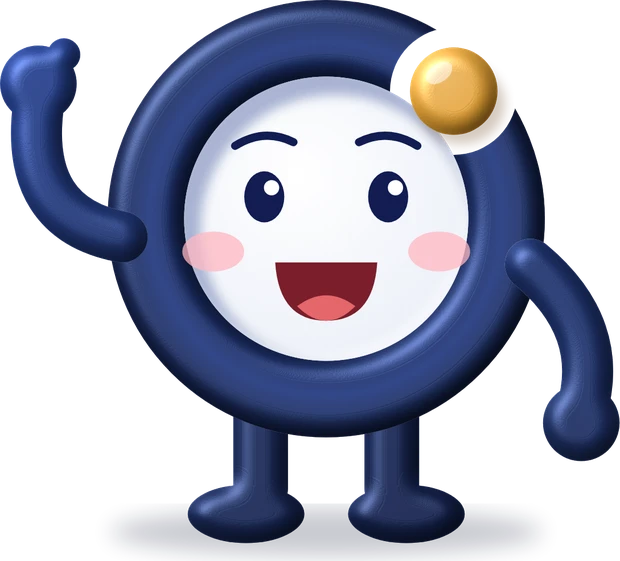
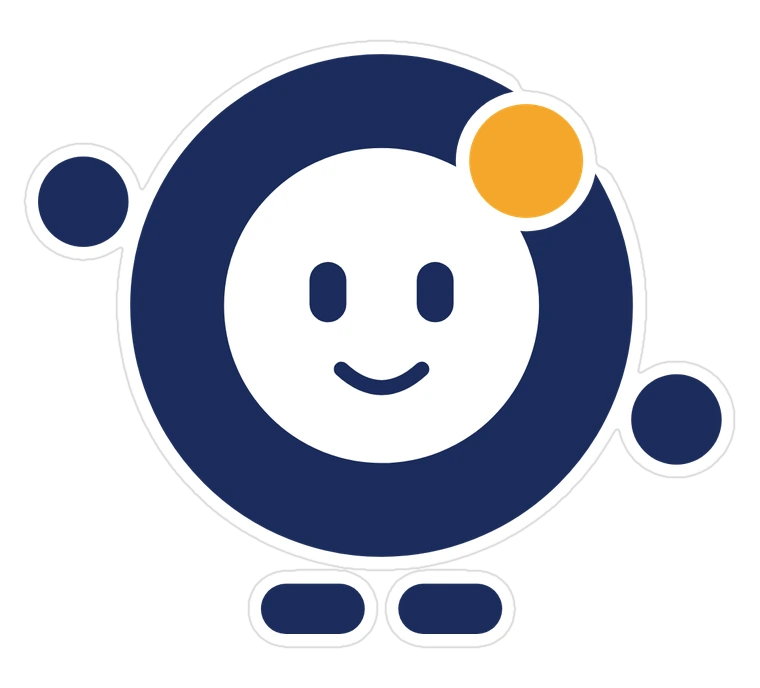
Oli nuevo: 4 imágenes (hero, hola, compras, moneda) con borde blanco; ?v=3
Claude-Session: https://claude.ai/code/session_01PwMX3HVwJBRj5STBDnUBEq

diff --git a/index.html b/index.html
@@ -25,7 +25,7 @@
 <meta name="description" content="Odlare hace apps sencillas para tu día a día, como Mis Finanzas, PuntoBalance y Mis Compras. Sin anuncios, en español e inglés, y tus datos se quedan en tu propio Google Drive.">
 <link rel="apple-touch-icon" href="/img/apple-touch-icon.png">
 <link rel="icon" type="image/png" sizes="32x32" href="/img/favicon-32.png">
-<link rel="preload" as="image" href="img/oli-hero.webp?v=2">
+<link rel="preload" as="image" href="img/oli-hero.webp?v=3">
 <link rel="preconnect" href="https://fonts.googleapis.com">
 <link rel="preconnect" href="https://fonts.gstatic.com" crossorigin>
 <link href="https://fonts.googleapis.com/css2?family=Plus+Jakarta+Sans:wght@400;500;600;700;800&display=swap" rel="stylesheet">
@@ -514,7 +514,7 @@ footer .bajo{border-top:1px solid var(--line);margin-top:44px;padding-top:24px;f
       </div>
     </div>
     <div class="phones" aria-hidden="true">
-      <div class="heroGlow"></div><img class="heroOli" src="img/oli-hero.webp?v=2" alt="">
+      <div class="heroGlow"></div><img class="heroOli" src="img/oli-hero.webp?v=3" alt="">
       <div class="phone p2"><div class="scr"><div class="sb"><span>12:30</span><span class="ico"><svg viewBox="0 0 16 11"><path d="M1 10h2V7H1zM5 10h2V5H5zM9 10h2V3H9zM13 10h2V1h-2z" fill="currentColor"/></svg><svg viewBox="0 0 14 11"><path d="M7 10.5 0.5 3.6a9.4 9.4 0 0 1 13 0z" fill="currentColor"/></svg><svg viewBox="0 0 22 11"><rect x="0.6" y="0.6" width="18" height="9.8" rx="2.6" fill="none" stroke="currentColor" stroke-width="1.2"/><rect x="2.4" y="2.4" width="11.5" height="6.2" rx="1.3" fill="currentColor"/><rect x="19.8" y="3.6" width="1.6" height="3.8" rx=".8" fill="currentColor"/></svg></span></div><img data-img="fin2" src="img/fin2-es.jpg" alt=""></div></div>
       <div class="noti">
         <img src="img/icono-finanzas.png" alt="">
@@ -595,7 +595,7 @@ footer .bajo{border-top:1px solid var(--line);margin-top:44px;padding-top:24px;f
     </article>
 
     <article class="app pronto rv" id="mis-compras" style="--c:var(--com)">
-      <img class="oliApp" src="img/oli-compras.webp?v=2" alt="" loading="lazy" decoding="async">
+      <img class="oliApp" src="img/oli-compras.webp?v=3" alt="" loading="lazy" decoding="async">
       <div class="top">
         <img src="img/icono-compras.png" alt="Mis Compras">
         <div><h3 data-es="Mis Compras" data-en="My Shopping">Mis Compras</h3><div class="tag" data-es="Tu lista de la compra" data-en="Your shopping list">Tu lista de la compra</div></div>
@@ -793,7 +793,7 @@ footer .bajo{border-top:1px solid var(--line);margin-top:44px;padding-top:24px;f
 <section id="contacto">
   <div class="wrap">
     <div class="contact rv">
-      <img class="oli" src="img/oli-hola.webp?v=2" width="180" height="163" alt="Oli, la mascota de Odlare, saludando">
+      <img class="oli" src="img/oli-hola.webp?v=3" width="180" height="163" alt="Oli, la mascota de Odlare, saludando">
       <div>
         <h2 data-es="¿Hablamos?" data-en="Let's talk">¿Hablamos?</h2>
         <p data-es="¿Una duda, una idea o quieres probar las apps antes que nadie? Escríbenos y te contestamos." data-en="A question, an idea, or want to try the apps before anyone else? Write to us and we'll get back to you.">¿Una duda, una idea o quieres probar las apps antes que nadie? Escríbenos y te contestamos.</p>
@@ -957,7 +957,7 @@ footer .bajo{border-top:1px solid var(--line);margin-top:44px;padding-top:24px;f
       </div>
       <div class="dv-stage">
         <div class="dv-ring"></div>
-        <img class="dv-oli" data-src-es="img/oli-compras.webp?v=2" data-src-en="img/oli-compras.webp?v=2" alt="" decoding="async">
+        <img class="dv-oli" data-src-es="img/oli-compras.webp?v=3" data-src-en="img/oli-compras.webp?v=3" alt="" decoding="async">
       </div>
     </div>
   </div>

diff --git a/ayuda.html b/ayuda.html
@@ -458,7 +458,7 @@ footer .bajo{border-top:1px solid var(--line);margin-top:44px;padding-top:24px;f
 <section id="contacto">
   <div class="wrap">
     <div class="contact rv">
-      <img class="oli" src="img/oli-hola.webp?v=2" width="180" height="163" alt="Oli, la mascota de Odlare, saludando">
+      <img class="oli" src="img/oli-hola.webp?v=3" width="180" height="163" alt="Oli, la mascota de Odlare, saludando">
       <div>
         <h2 data-es="¿No está tu pregunta?" data-en="Question not here?">¿No está tu pregunta?</h2>
         <p data-es="¿Una duda, una idea o quieres probar las apps antes que nadie? Escríbenos y te contestamos." data-en="A question, an idea, or want to try the apps before anyone else? Write to us and we'll get back to you.">¿Una duda, una idea o quieres probar las apps antes que nadie? Escríbenos y te contestamos.</p>

diff --git a/terminos.html b/terminos.html
@@ -459,7 +459,7 @@ footer .bajo{border-top:1px solid var(--line);margin-top:44px;padding-top:24px;f
 <section id="contacto">
   <div class="wrap">
     <div class="contact rv">
-      <img class="oli" src="img/oli-hola.webp?v=2" width="180" height="163" alt="Oli, la mascota de Odlare, saludando">
+      <img class="oli" src="img/oli-hola.webp?v=3" width="180" height="163" alt="Oli, la mascota de Odlare, saludando">
       <div>
         <h2 data-es="¿No está tu pregunta?" data-en="Question not here?">¿No está tu pregunta?</h2>
         <p data-es="¿Una duda, una idea o quieres probar las apps antes que nadie? Escríbenos y te contestamos." data-en="A question, an idea, or want to try the apps before anyone else? Write to us and we'll get back to you.">¿Una duda, una idea o quieres probar las apps antes que nadie? Escríbenos y te contestamos.</p>

diff --git a/404.html b/404.html
@@ -23,7 +23,7 @@ p{font-size:17px;max-width:440px;margin:0 auto}
 <body>
 <main>
   <a class="l" href="/"><svg viewBox="0 0 100 100" aria-hidden="true"><circle cx="44" cy="58" r="32" fill="none" stroke="#fff" stroke-width="20"/><circle cx="66.6" cy="35.4" r="13" fill="#F4A62A" stroke="#14204B" stroke-width="6"/></svg>dlare</a><br>
-  <img src="/img/oli-hola.webp?v=2" width="200" height="181" alt="Oli">
+  <img src="/img/oli-hola.webp?v=3" width="200" height="181" alt="Oli">
   <h1>Esta página no existe</h1>
   <p>Puede que el enlace esté mal escrito o que la página se haya movido.</p>
   <p class="en">This page doesn't exist. The link may be wrong or the page has moved.</p>
